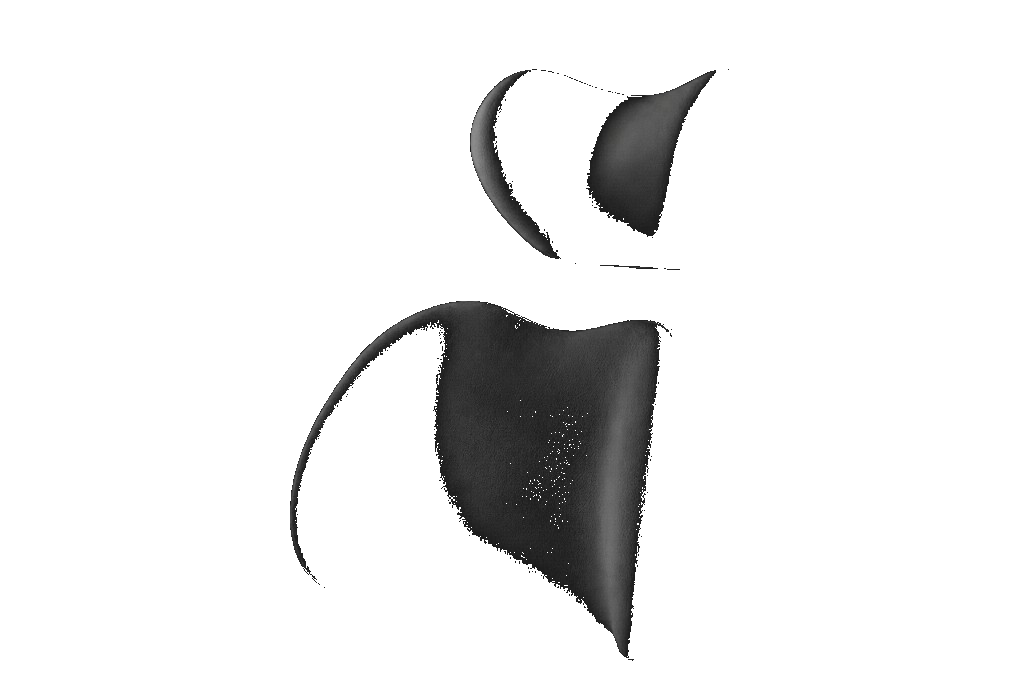
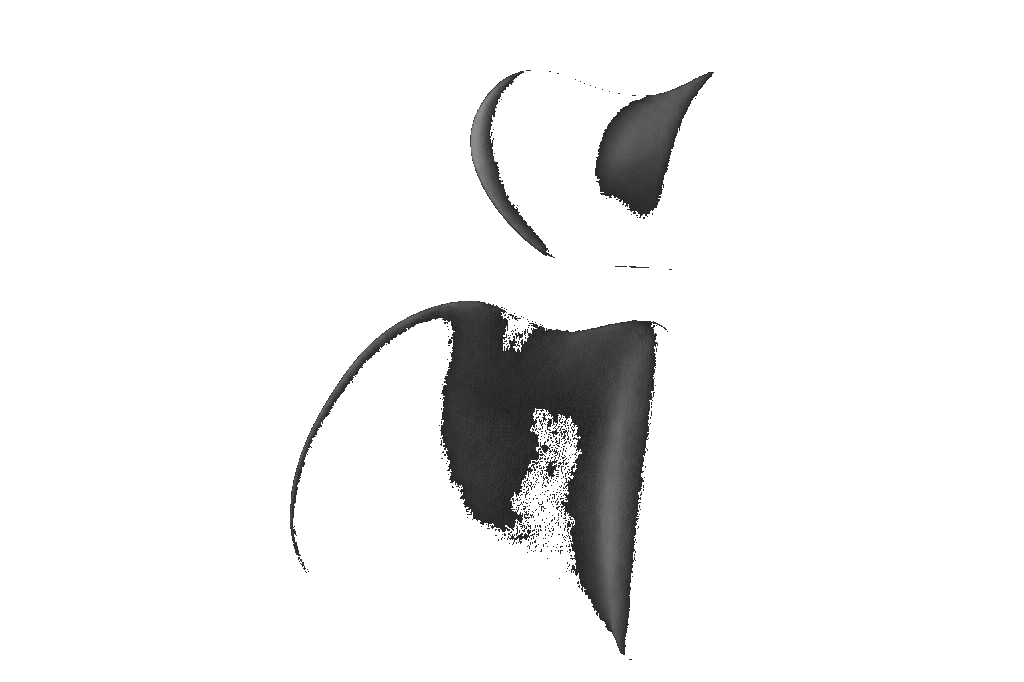
Fix cut-off hero product with edge flood-fill transparency and better framing.

diff --git a/components/home/premium-home-hero.tsx b/components/home/premium-home-hero.tsx
@@ -18,16 +18,17 @@ export function PremiumHomeHero() {
       <div className="container relative grid items-center gap-8 py-10 sm:gap-10 sm:py-12 lg:grid-cols-2 lg:gap-14 lg:py-16">
         {/* Product image */}
         <div className="relative order-2 lg:order-1">
-          <div className="relative mx-auto aspect-square w-full max-w-[420px] sm:max-w-[480px] lg:max-w-[520px]">
-            <div className="relative h-full w-full animate-hero-float">
+          <div className="relative mx-auto aspect-[3/2] w-full max-w-[480px] sm:max-w-[540px] lg:max-w-[580px]">
+            <div className="pointer-events-none absolute inset-[8%] bg-white/12 blur-3xl" aria-hidden />
+            <div className="relative h-full w-full animate-hero-float px-2 py-1 sm:px-4 sm:py-2">
               <Image
                 src={slide.image}
                 alt={slide.imageAlt}
                 fill
                 priority
-                quality={92}
-                sizes="(max-width: 640px) 85vw, (max-width: 1024px) 45vw, 520px"
-                className="object-contain drop-shadow-[0_16px_32px_rgba(0,0,0,0.25)]"
+                quality={95}
+                sizes="(max-width: 640px) 92vw, (max-width: 1024px) 50vw, 580px"
+                className="object-contain drop-shadow-[0_12px_28px_rgba(0,0,0,0.35)]"
               />
             </div>
           </div>